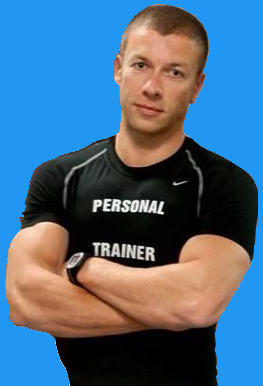
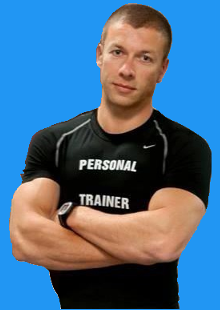
Modif contour header + taille presentation

diff --git a/web/template/css/creative.css b/web/template/css/creative.css
@@ -429,24 +429,28 @@ header .header-content .header-content-inner h1 {
   font-size: 80px;
 }
 
+#homeHeading {
+	 text-shadow: 1px 0 0 grey, -1px 0 0 grey, 0 1px 0 grey, 0 -1px 0 grey, 1px 1px grey, -1px -1px 0 grey, 1px -1px 0 grey, -1px 1px 0 grey;
+}
+
+#coachH2 {
+	 text-shadow: 0.5px 0 0 grey, -0.5px 0 0 grey, 0 0.5px 0 grey, 0 -0.5px 0 grey, 0.5px 0.5px grey, -0.5px -0.5px 0 grey, 0.5px -0.5px 0 grey, -0.5px 0.5px 0 grey;
+}
+
+.coachSportifText {
+	font-size: 35px;
+	margin-top: 20px;
+	margin-bottom: 85px;
+}
 /* FIN BLOC HEADER */
 
 /* DÉBUT PRÉSENTATION */
 .leTitle{
 	text-align: center;
-	/*margin-right: 22.5%;*/
 }
 
-.test{
-}
-
-.presentationText{
-}
-.bigDavid{
-	margin-left: -1%;
-}
-
-.ajustementPara{
+#presentation{
+	padding: 0px;
 }
 
 .ajustementImage{

diff --git a/web/template/css/tarif.css b/web/template/css/tarif.css
@@ -18,7 +18,6 @@
     color: #FFF;
     display: block;
     font-family: 'Lato', Arial, sans-serif;
-    line-height: 200px;
 	margin: 0 auto;
 	padding: 2em;
 	text-align: center;
@@ -29,7 +28,7 @@
 
 .tarifBenefit{
   color: white;
-  font-size: 300%;
+  font-size: 200%;
   margin-top: 20%;
   text-decoration:none;
 }
